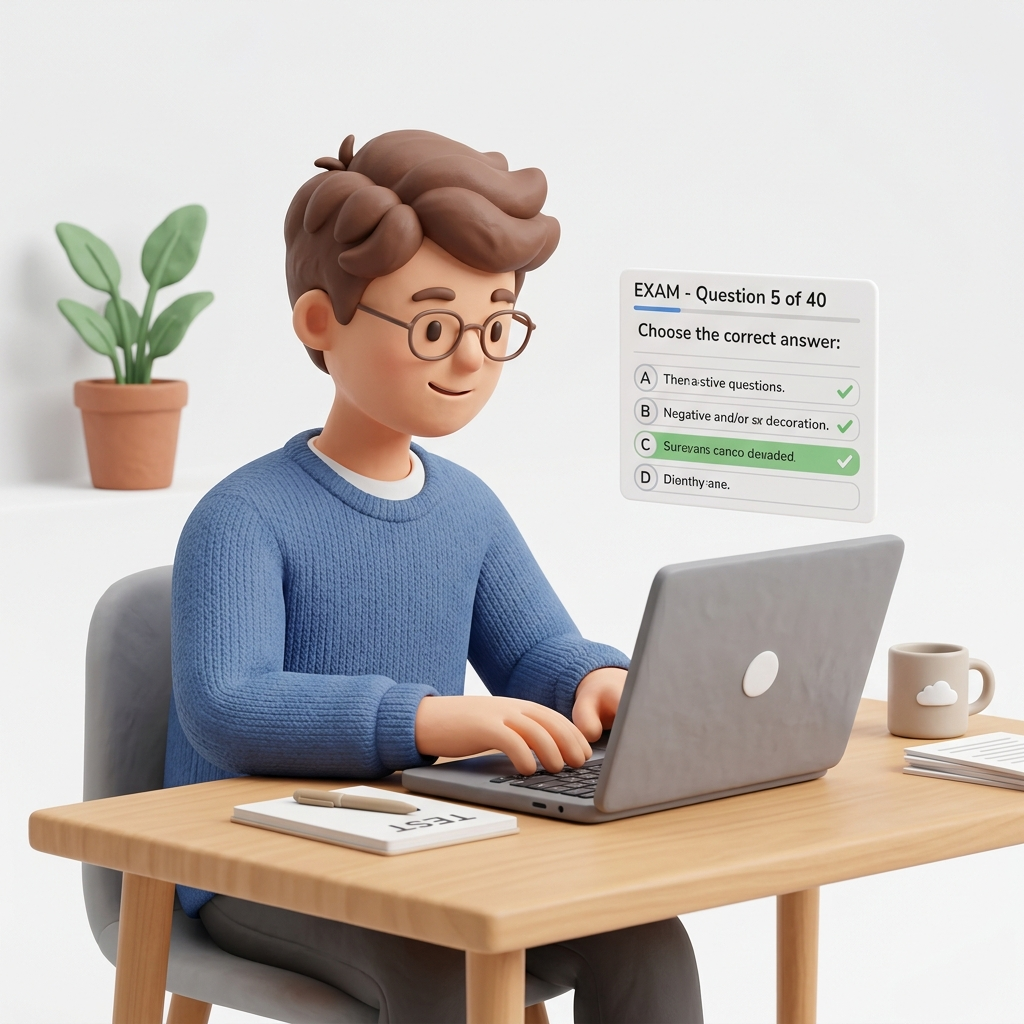
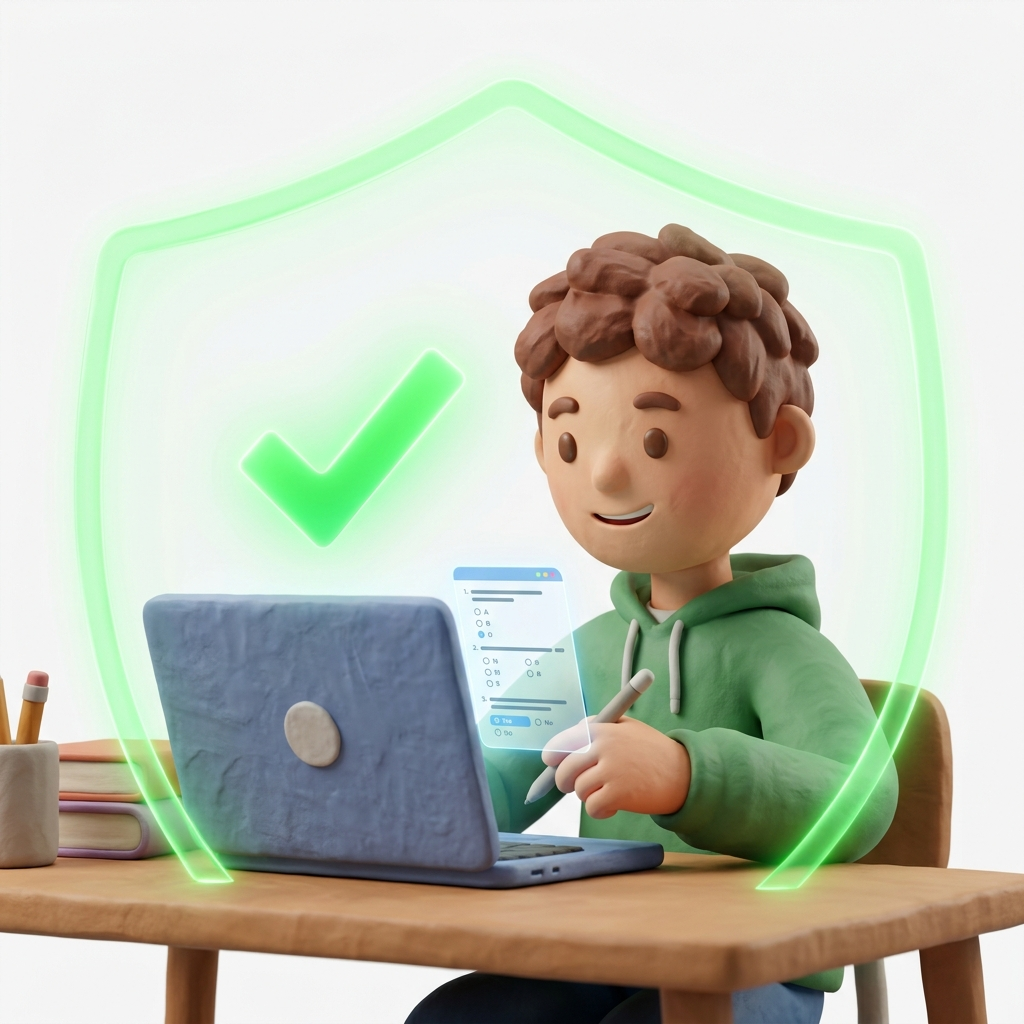
fix: resolve mobile layout issues on HeroSection, fix DashboardMockup clipping, and configure global sans-serif font resolution

diff --git a/src/components/sections/PlacementPulseSection.tsx b/src/components/sections/PlacementPulseSection.tsx
@@ -8,7 +8,6 @@ import {
   Award,
   Sparkles
 } from 'lucide-react';
-import { cn } from '@/lib/utils';
 
 interface StepCardProps {
   step: string;
@@ -31,34 +30,38 @@ const StepCard: React.FC<StepCardProps> = ({
       whileInView={{ opacity: 1, y: 0 }}
       viewport={{ once: true, margin: "-60px" }}
       transition={{ type: "spring", stiffness: 80, damping: 15, delay }}
-      className={cn(
-        "relative flex flex-col items-center text-center group transition-all duration-300 z-10 w-full py-4"
-      )}
+      className="relative flex flex-col items-center text-center group z-10 w-full py-6 px-4"
     >
+      {/* Soft floating background ambient glow behind each step */}
+      <div className="absolute top-1/2 left-1/2 -translate-x-1/2 -translate-y-1/2 w-48 h-48 bg-gradient-to-tr from-[#58CC02]/[0.04] to-[#46A302]/[0.01] blur-3xl rounded-full -z-10 group-hover:scale-125 transition-transform duration-500 pointer-events-none" />
+
       <div className="flex flex-col items-center w-full">
-        {/* Step Badge & Icon */}
-        <div className="flex items-center gap-3.5 mb-6">
-          <div className="w-10 h-10 rounded-xl bg-white border border-slate-200/80 flex items-center justify-center text-[#58CC02] shadow-sm group-hover:scale-105 transition-transform duration-300">
+        {/* Step Badge with Glassmorphism */}
+        <div className="flex items-center gap-3 mb-6">
+          <div className="w-10 h-10 rounded-xl bg-white/80 backdrop-blur-md border border-slate-200/60 flex items-center justify-center text-[#58CC02] shadow-[0_4px_12px_rgba(0,0,0,0.02)] group-hover:rotate-[10deg] group-hover:scale-110 transition-all duration-300">
             {icon}
           </div>
-          <span className="text-[10px] font-bold text-[#46A302] bg-[#58CC02]/8 border border-[#58CC02]/15 px-3 py-1 rounded-full uppercase tracking-wider">
+          <span className="text-[10px] font-black text-[#46A302] bg-[#58CC02]/8 border border-[#58CC02]/15 px-3 py-1 rounded-full uppercase tracking-widest">
             {step}
           </span>
         </div>
 
-        {/* Mascot Image centered and floating */}
-        <div className="w-56 h-56 md:w-64 md:h-64 relative flex items-center justify-center overflow-hidden pointer-events-none mb-6">
+        {/* Mascot Image Container with interactive shadow and bounce */}
+        <div className="w-56 h-56 md:w-64 md:h-64 relative flex items-center justify-center pointer-events-none mb-6">
+          {/* Subtle reflection/shadow below illustration */}
+          <div className="absolute bottom-2 left-1/2 -translate-x-1/2 w-36 h-3.5 bg-slate-900/[0.04] blur-md rounded-full group-hover:w-40 group-hover:bg-slate-900/[0.06] transition-all duration-300" />
+          
           <motion.img 
             src={imageSrc}
             alt={title}
             animate={{ y: [0, -6, 0] }}
-            transition={{ repeat: Infinity, duration: 4.5, ease: "easeInOut", delay: delay * 2 }}
-            className="max-h-full object-contain group-hover:scale-110 transition-transform duration-300"
+            transition={{ repeat: Infinity, duration: 4.5, ease: "easeInOut", delay: delay * 1.5 }}
+            className="max-h-full object-contain group-hover:scale-110 group-hover:-translate-y-2 transition-transform duration-300"
           />
         </div>
 
-        {/* Title */}
-        <h3 className="text-xl md:text-2xl font-extrabold text-[#0F172A] tracking-tight group-hover:text-[#58CC02] transition-colors duration-300">
+        {/* Title using premium typography and hover color transitions */}
+        <h3 className="text-2xl md:text-3xl font-black text-[#0F172A] tracking-tight group-hover:text-[#58CC02] transition-colors duration-300">
           {title}
         </h3>
       </div>
@@ -68,27 +71,55 @@ const StepCard: React.FC<StepCardProps> = ({
 
 const ArrowConnector: React.FC = () => {
   return (
-    <div className="flex items-center justify-center min-w-[2.5rem] text-[#58CC02] z-20">
-      {/* Desktop Arrow */}
-      <motion.div 
-        className="hidden lg:block"
-        animate={{ x: [-4, 4, -4] }}
-        transition={{ repeat: Infinity, duration: 2, ease: "easeInOut" }}
-      >
-        <svg width="48" height="24" viewBox="0 0 48 24" fill="none" xmlns="http://www.w3.org/2000/svg" className="stroke-[#58CC02]">
-          <path d="M2 12H46M46 12L36 2M46 12L36 22" strokeWidth="3.5" strokeLinecap="round" strokeLinejoin="round"/>
+    <div className="flex items-center justify-center min-w-[3.5rem] lg:min-w-[5rem] text-[#58CC02] z-20">
+      {/* Desktop Arrow with Flying Dot */}
+      <div className="hidden lg:block relative w-16 h-8">
+        <svg width="64" height="24" viewBox="0 0 64 24" fill="none" xmlns="http://www.w3.org/2000/svg" className="w-full h-full">
+          {/* Base Arrow Line */}
+          <path d="M2 12H62M62 12L52 2M62 12L52 22" stroke="#E2E8F0" strokeWidth="2.5" strokeLinecap="round" strokeLinejoin="round"/>
+          {/* Animated Active Line */}
+          <motion.path 
+            d="M2 12H62" 
+            stroke="url(#green-gradient)" 
+            strokeWidth="3" 
+            strokeLinecap="round"
+            strokeDasharray="12 40"
+            animate={{ strokeDashoffset: [0, -52] }}
+            transition={{ repeat: Infinity, duration: 1.5, ease: "linear" }}
+          />
+          <defs>
+            <linearGradient id="green-gradient" x1="0%" y1="0%" x2="100%" y2="0%">
+              <stop offset="0%" stopColor="#58CC02" stopOpacity="0"/>
+              <stop offset="50%" stopColor="#58CC02" stopOpacity="1"/>
+              <stop offset="100%" stopColor="#46A302" stopOpacity="0"/>
+            </linearGradient>
+          </defs>
         </svg>
-      </motion.div>
-      {/* Mobile Arrow */}
-      <motion.div 
-        className="block lg:hidden py-4"
-        animate={{ y: [-4, 4, -4] }}
-        transition={{ repeat: Infinity, duration: 2, ease: "easeInOut" }}
-      >
-        <svg width="24" height="48" viewBox="0 0 24 48" fill="none" xmlns="http://www.w3.org/2000/svg" className="stroke-[#58CC02]">
-          <path d="M12 2V46M12 46L2 36M12 46L22 36" strokeWidth="3.5" strokeLinecap="round" strokeLinejoin="round"/>
+      </div>
+      {/* Mobile Arrow with Flying Dot */}
+      <div className="block lg:hidden py-4 w-8 h-16">
+        <svg width="24" height="64" viewBox="0 0 24 64" fill="none" xmlns="http://www.w3.org/2000/svg" className="w-full h-full">
+          {/* Base Arrow Line */}
+          <path d="M12 2V62M12 62L2 52M12 62L22 52" stroke="#E2E8F0" strokeWidth="2.5" strokeLinecap="round" strokeLinejoin="round"/>
+          {/* Animated Active Line */}
+          <motion.path 
+            d="M12 2V62" 
+            stroke="url(#green-gradient-v)" 
+            strokeWidth="3" 
+            strokeLinecap="round"
+            strokeDasharray="12 40"
+            animate={{ strokeDashoffset: [0, -52] }}
+            transition={{ repeat: Infinity, duration: 1.5, ease: "linear" }}
+          />
+          <defs>
+            <linearGradient id="green-gradient-v" x1="0%" y1="0%" x2="0%" y2="100%">
+              <stop offset="0%" stopColor="#58CC02" stopOpacity="0"/>
+              <stop offset="50%" stopColor="#58CC02" stopOpacity="1"/>
+              <stop offset="100%" stopColor="#46A302" stopOpacity="0"/>
+            </linearGradient>
+          </defs>
         </svg>
-      </motion.div>
+      </div>
     </div>
   );
 };
@@ -155,7 +186,7 @@ export const PlacementPulseSection: React.FC = () => {
           <StepCard 
             step="Stage 01"
             title="Continuous Learning"
-            imageSrc="/assets/projects/robot_studying.png"
+            imageSrc="/assets/projects/student_studying.png"
             icon={<BookOpen className="w-5 h-5" />}
             delay={0}
           />
@@ -166,7 +197,7 @@ export const PlacementPulseSection: React.FC = () => {
           <StepCard 
             step="Stage 02"
             title="Verified Assessments"
-            imageSrc="/assets/projects/robot_testing.png"
+            imageSrc="/assets/projects/student_testing.png"
             icon={<ShieldCheck className="w-5 h-5" />}
             delay={0.15}
           />
@@ -177,7 +208,7 @@ export const PlacementPulseSection: React.FC = () => {
           <StepCard 
             step="Stage 03"
             title="Direct Placement"
-            imageSrc="/assets/projects/robot_placed.png"
+            imageSrc="/assets/projects/student_placed.png"
             icon={<Award className="w-5 h-5" />}
             delay={0.3}
           />

diff --git a/src/app/globals.css b/src/app/globals.css
@@ -62,7 +62,7 @@
 
 body {
   background-color: var(--background);
-  font-family: var(--font-sans), sans-serif;
+  font-family: var(--font-geist-sans), ui-sans-serif, system-ui, -apple-system, BlinkMacSystemFont, sans-serif;
 }
 
 /* Custom UI Utility Classes */
@@ -258,5 +258,18 @@ body {
   }
   html {
     @apply font-sans;
+  }
+}
+
+/* Responsive edge fading mask for desktop stack only */
+.desktop-mask {
+  mask-image: linear-gradient(90deg, transparent 0%, black 12%, black 88%, transparent 100%);
+  -webkit-mask-image: linear-gradient(90deg, transparent 0%, black 12%, black 88%, transparent 100%);
+}
+
+@media (max-width: 1024px) {
+  .desktop-mask {
+    mask-image: none !important;
+    -webkit-mask-image: none !important;
   }
 }

diff --git a/src/components/sections/HeroSection.tsx b/src/components/sections/HeroSection.tsx
@@ -295,7 +295,7 @@ export const HeroSection: React.FC = () => {
             </div>
 
             {/* Dashboard mockup as a secondary layered panel */}
-            <div className="relative min-h-[520px] lg:min-h-[760px]">
+            <div className="relative min-h-0 h-auto lg:min-h-[760px] w-full">
               <motion.div
                 initial={{ opacity: 0, x: 60, rotateY: 8 }}
                 whileInView={{ opacity: 1, x: 0, rotateY: 0 }}
@@ -316,11 +316,9 @@ export const HeroSection: React.FC = () => {
                     rotateX: hoverRotateX,
                     rotateY: hoverRotateY,
                     transformStyle: "preserve-3d",
-                    backfaceVisibility: "hidden",
-                    maskImage: 'linear-gradient(90deg, transparent 0%, black 14%, black 86%, transparent 100%)',
-                    WebkitMaskImage: 'linear-gradient(90deg, transparent 0%, black 14%, black 86%, transparent 100%)'
+                    backfaceVisibility: "hidden"
                   }}
-                  className="w-full h-full shadow-2xl rounded-2xl bg-white border border-slate-200 opacity-95"
+                  className="w-full h-auto lg:h-full shadow-2xl rounded-2xl bg-white border border-slate-200 opacity-95 desktop-mask"
                   onMouseMove={handleMouseMove}
                   onMouseLeave={handleMouseLeave}
                 >

diff --git a/src/components/ui/DashboardMockup.tsx b/src/components/ui/DashboardMockup.tsx
@@ -161,7 +161,7 @@ export const DashboardMockup: React.FC<DashboardMockupProps> = ({ activeTabOverr
 
       {/* --- Main Viewport (preserves 3D context) --- */}
       <div 
-        className="relative w-full aspect-[16/10] bg-slate-50 p-6 rounded-b-[14px] select-none overflow-hidden"
+        className="relative w-full aspect-[16/10] bg-slate-50 p-6 rounded-b-[14px] select-none overflow-visible"
         style={{ transformStyle: 'preserve-3d', perspective: 1200 }}
       >
         {/* Modern Grid Background inside Mockup Viewport */}